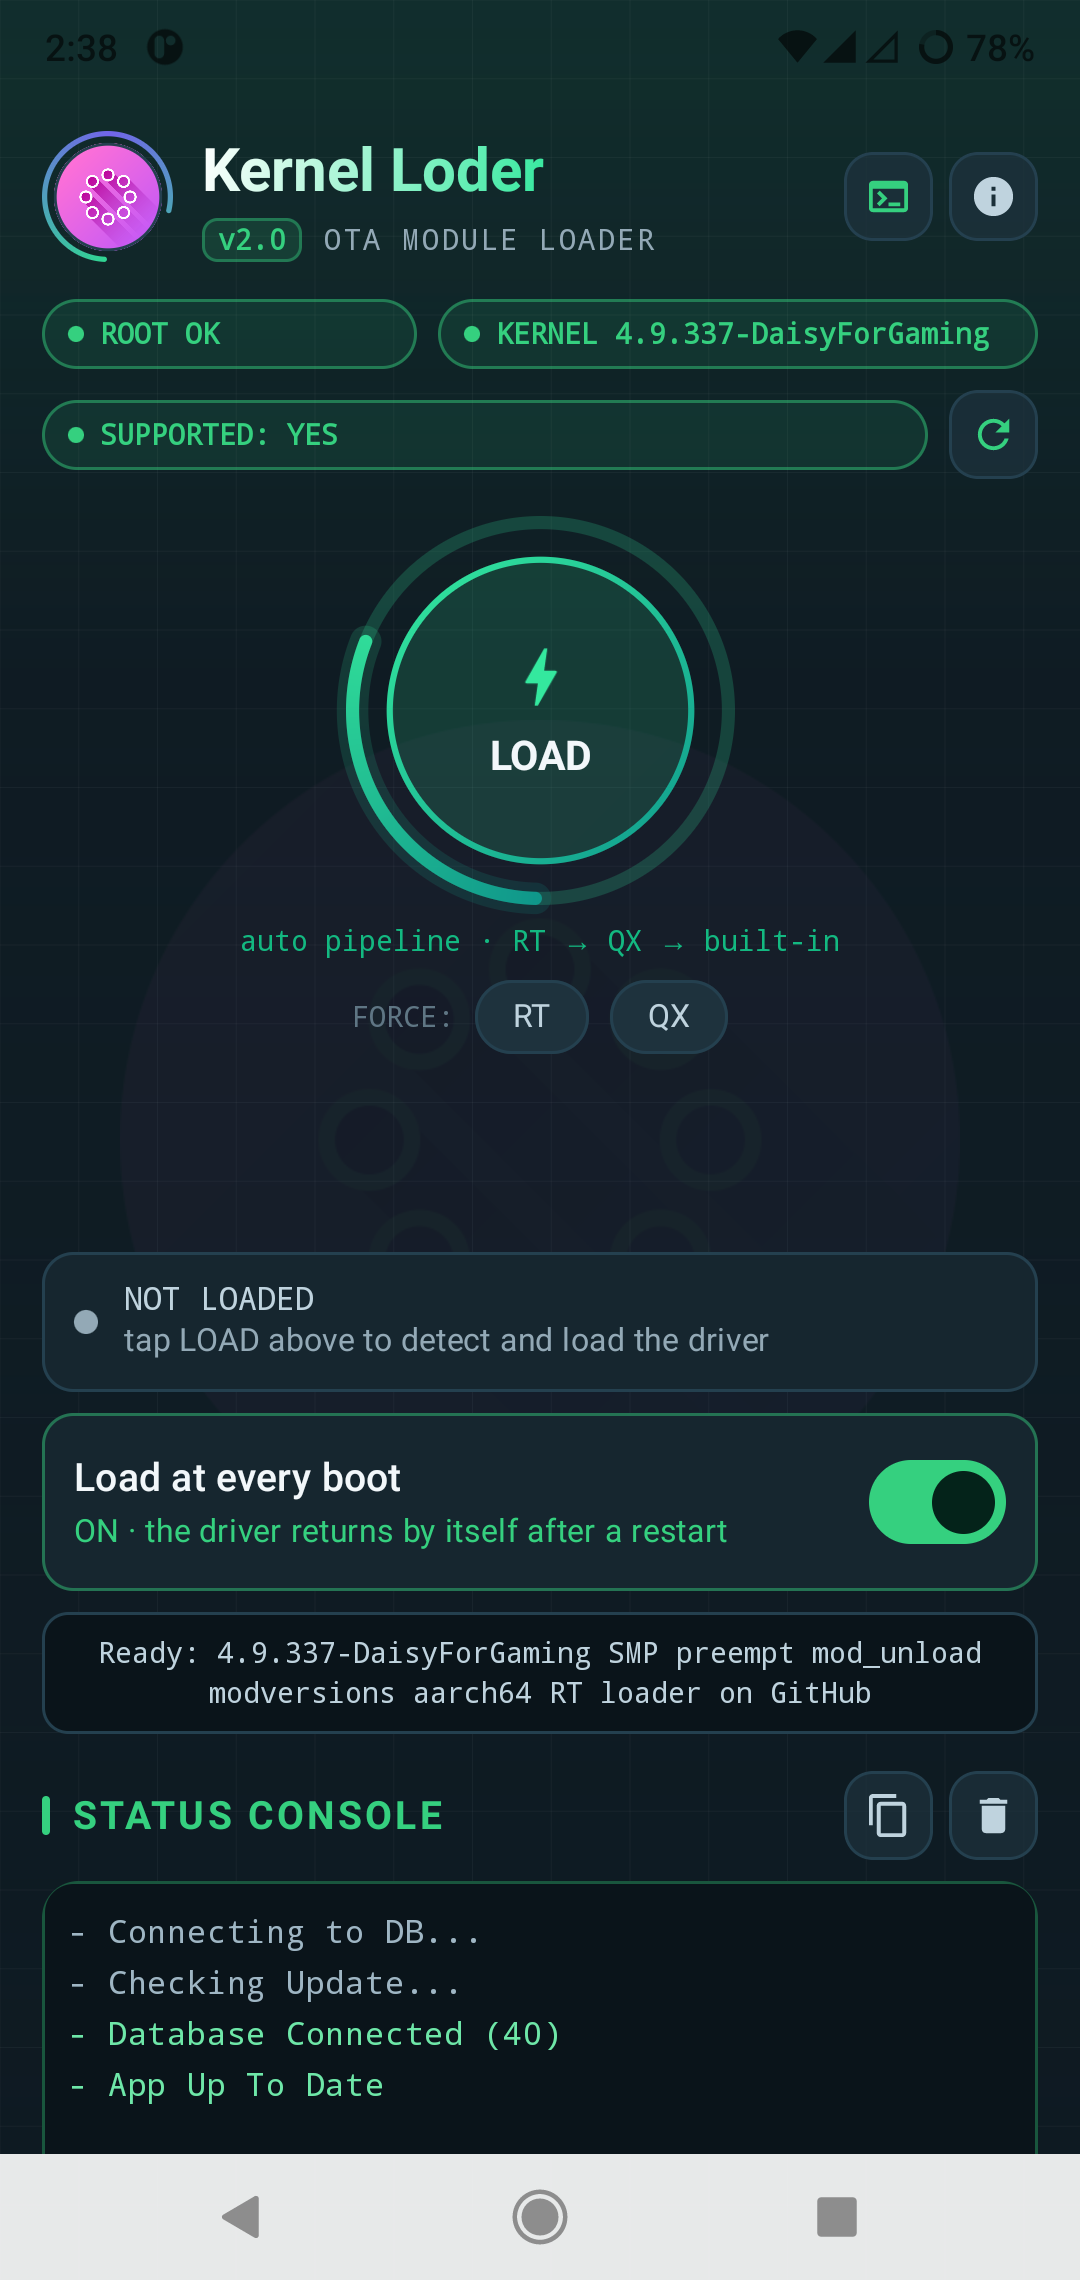
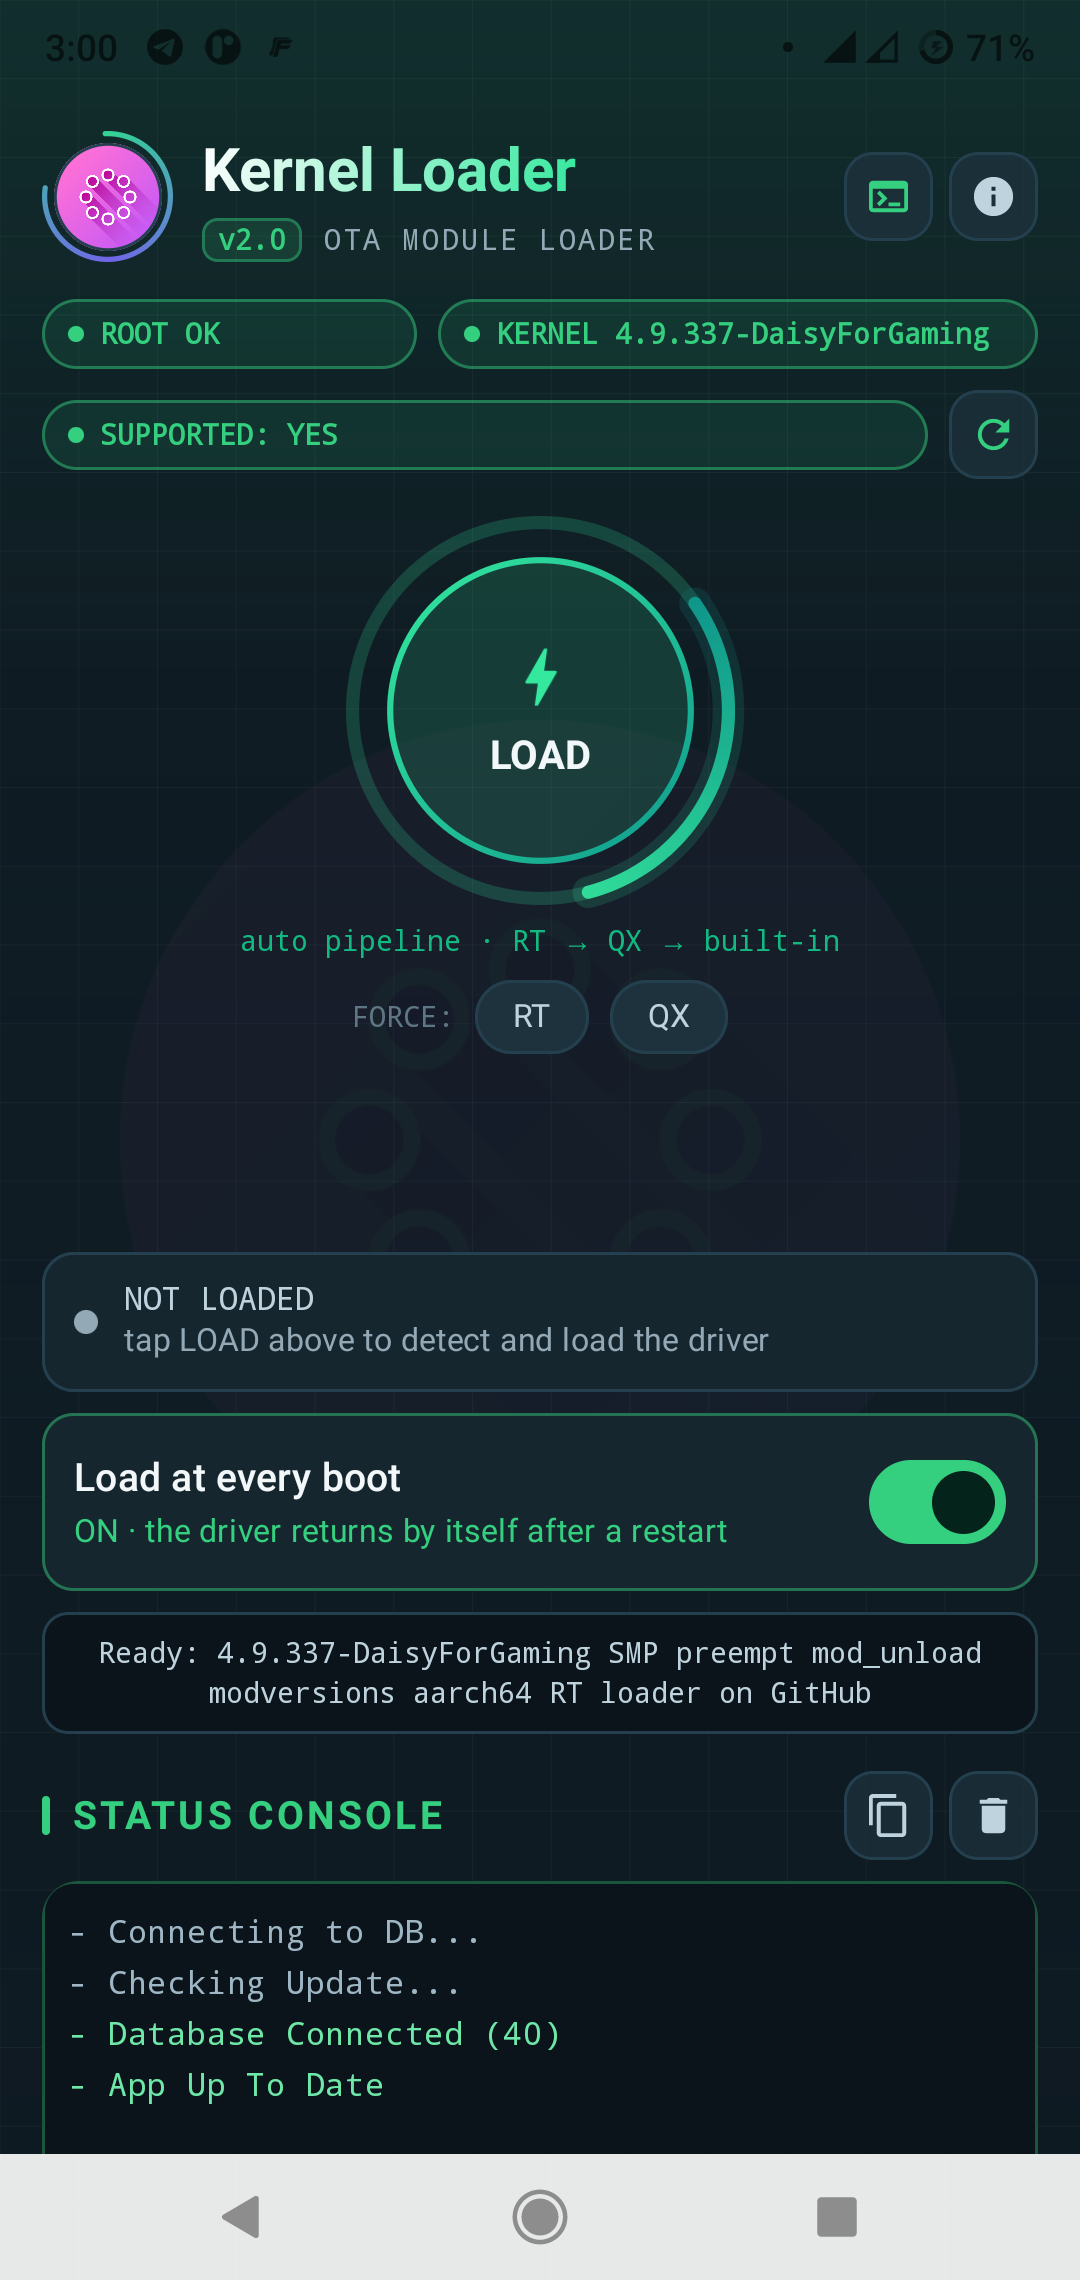
rename display brand: Kernel Loder -> Kernel Loader

diff --git a/app/src/main/java/com/kernelloader/driver/SupportContact.kt b/app/src/main/java/com/kernelloader/driver/SupportContact.kt
@@ -5,7 +5,7 @@ import java.net.URLEncoder
 
 object SupportContact {
     
-    const val APP_NAME = "Kernel Loder"
+    const val APP_NAME = "Kernel Loader"
 
     const val WHATSAPP_NUMBER = "8801785917145"
 
@@ -18,7 +18,7 @@ object SupportContact {
         val sdk = Build.VERSION.SDK_INT
         return buildString {
             appendLine("╔══════════════════════════╗")
-            appendLine("   ⚡  KERNEL LODER SUPPORT  ⚡")
+            appendLine("   ⚡  KERNEL LOADER SUPPORT  ⚡")
             appendLine("╚══════════════════════════╝")
             appendLine()
             appendLine("📱 Device  : $model")
@@ -57,7 +57,7 @@ object SupportContact {
             .takeLast(maxLogChars)
         return buildString {
             appendLine("╔══════════════════════════╗")
-            appendLine("   ⚡ KERNEL LODER REPORT ⚡")
+            appendLine("   ⚡ KERNEL LOADER REPORT ⚡")
             appendLine("╚══════════════════════════╝")
             appendLine()
             appendLine("📱 Device  : $model")

diff --git a/app/src/main/java/com/kernelloader/ui/HomeScreen.kt b/app/src/main/java/com/kernelloader/ui/HomeScreen.kt
@@ -667,7 +667,7 @@ private fun HomeHeader(
             }
             Image(
                 painter = painterResource(id = R.drawable.app_logo),
-                contentDescription = "Kernel Loder logo",
+                contentDescription = "Kernel Loader logo",
                 contentScale = ContentScale.Crop,
                 modifier = Modifier
                     .size(42.dp)
@@ -679,7 +679,7 @@ private fun HomeHeader(
         Spacer(Modifier.width(11.dp))
         Column(Modifier.weight(1f)) {
             Text(
-                text = "Kernel Loder",
+                text = "Kernel Loader",
                 style = MaterialTheme.typography.headlineSmall.copy(
                     brush = Brush.linearGradient(listOf(Color.White, GradientRtStart))
                 )

diff --git a/app/src/main/java/com/kernelloader/driver/DriverAutoload.kt b/app/src/main/java/com/kernelloader/driver/DriverAutoload.kt
@@ -85,8 +85,8 @@ object DriverAutoload {
         val shell = """
 #!/system/bin/sh
 # ---------------------------------------------------------------
-# Kernel Loder - load the memory driver at boot.
-# Generated by the Kernel Loder app. Safe to delete.
+# Kernel Loader - load the memory driver at boot.
+# Generated by the Kernel Loader app. Safe to delete.
 #
 # Module     : @MODNAME@
 # ABI family : @FAMILY@

diff --git a/app/src/main/java/com/kernelloader/ui/TerminalScreen.kt b/app/src/main/java/com/kernelloader/ui/TerminalScreen.kt
@@ -144,7 +144,7 @@ fun ConsoleScreen(
                     )
                 }
                 Text(
-                    text = "Kernel Loder Console",
+                    text = "Kernel Loader Console",
                     style = MaterialTheme.typography.titleLarge.copy(
                         brush = Brush.linearGradient(listOf(Color.White, GradientRtStart))
                     )

diff --git a/app/src/main/java/com/kernelloader/ui/CreditsScreen.kt b/app/src/main/java/com/kernelloader/ui/CreditsScreen.kt
@@ -62,7 +62,7 @@ fun CreditsScreen(onBack: () -> Unit) {
         ) {
             Image(
                 painter = painterResource(id = R.drawable.app_logo),
-                contentDescription = "Kernel Loder logo",
+                contentDescription = "Kernel Loader logo",
                 modifier = Modifier
                     .size(92.dp)
                     .clip(CircleShape)

diff --git a/README.md b/README.md
@@ -1,8 +1,8 @@
 <div align="center">
 
-<img src="app/src/main/res/mipmap-xxxhdpi/ic_launcher.png" width="72" alt="Kernel Loder" onerror="this.style.display='none'"/>
+<img src="app/src/main/res/mipmap-xxxhdpi/ic_launcher.png" width="72" alt="Kernel Loader" onerror="this.style.display='none'"/>
 
-# ⚡ Kernel Loder
+# ⚡ Kernel Loader
 
 ### OTA Kernel Module Loader for Android
 **One tap · Detects your kernel · Downloads the right driver · Loads it**
@@ -16,7 +16,7 @@
 
 ---
 
-**Kernel Loder** is a root-powered Android app that loads kernel modules (`.ko`) on any
+**Kernel Loader** is a root-powered Android app that loads kernel modules (`.ko`) on any
 arm64 device. It reads your **exact running kernel**, finds a matching driver in the
 **OTA driver database** (40+ prebuilt kernels), loads it through a safe pipeline and
 verifies the result — all from one clean, dark interface.
@@ -170,7 +170,7 @@ is given**. Keep a backup of your boot image and know how to recover.
 
 <div align="center">
 
-**Kernel Loder v2.0** — one tap, the right driver, every kernel.
+**Kernel Loader v2.0** — one tap, the right driver, every kernel.
 ⭐ Star the repo if it helped you!
 
 </div>

diff --git a/CHANGELOG.md b/CHANGELOG.md
@@ -1,6 +1,6 @@
 # Changelog
 
-All notable changes to **Kernel Loder** are documented here.
+All notable changes to **Kernel Loader** are documented here.
 Format follows [Keep a Changelog](https://keepachangelog.com/en/1.1.0/) and the project uses
 semantic-ish version tags (`<major>.<minor>-<flavour>`).
 
@@ -434,7 +434,7 @@ OTA groundwork release (superseded by 2.3).
 * `docs/` — Bangla install / build / FAQ guides.
 
 ### Changed
-* **Project renamed to “Kernel Loder”** (`settings.gradle.kts` rootProject name, app label,
+* **Project renamed to “Kernel Loader”** (`settings.gradle.kts` rootProject name, app label,
   credits screen) — the app no longer carries a device-specific identity.
 * **Device-agnostic everything:** the app never checks brand/model/codename, only the kernel release.
 * Driver selection now reads the **real kernel release from each `.ko` binary (vermagic)**
